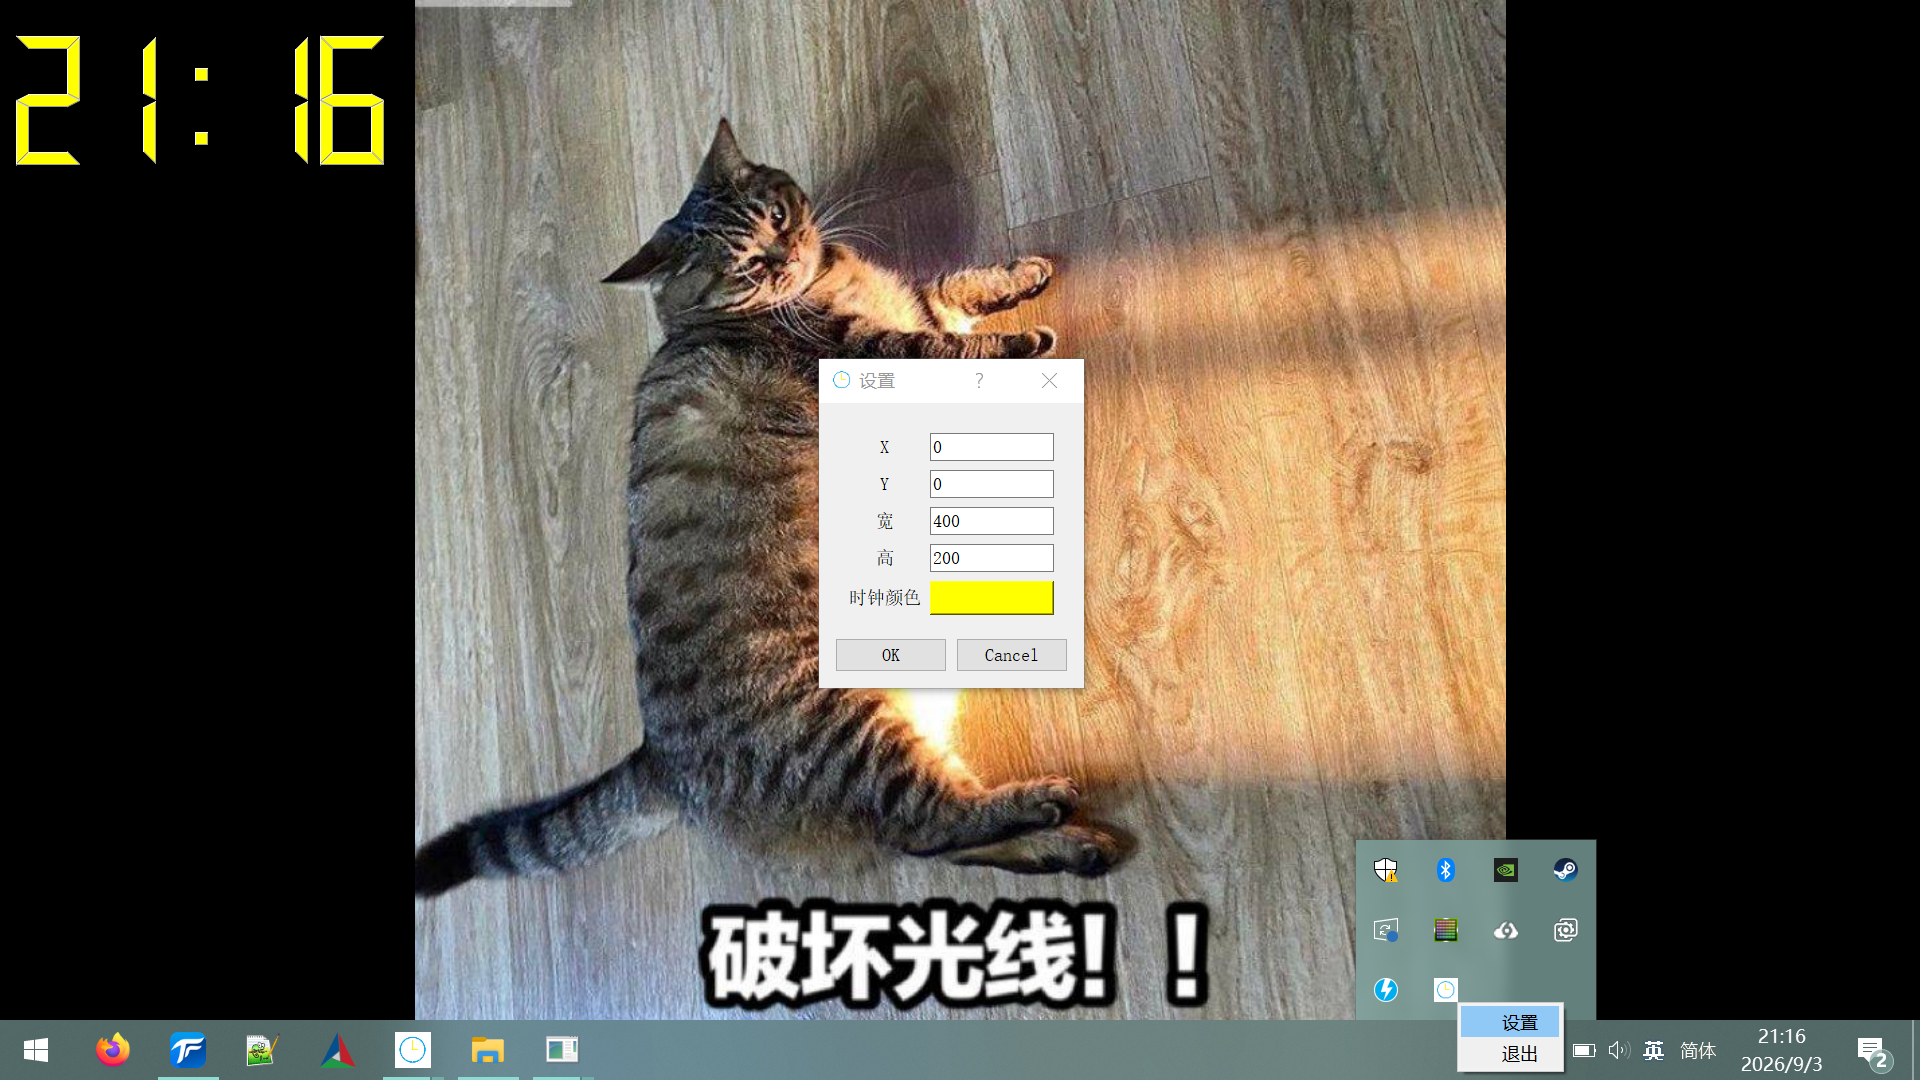
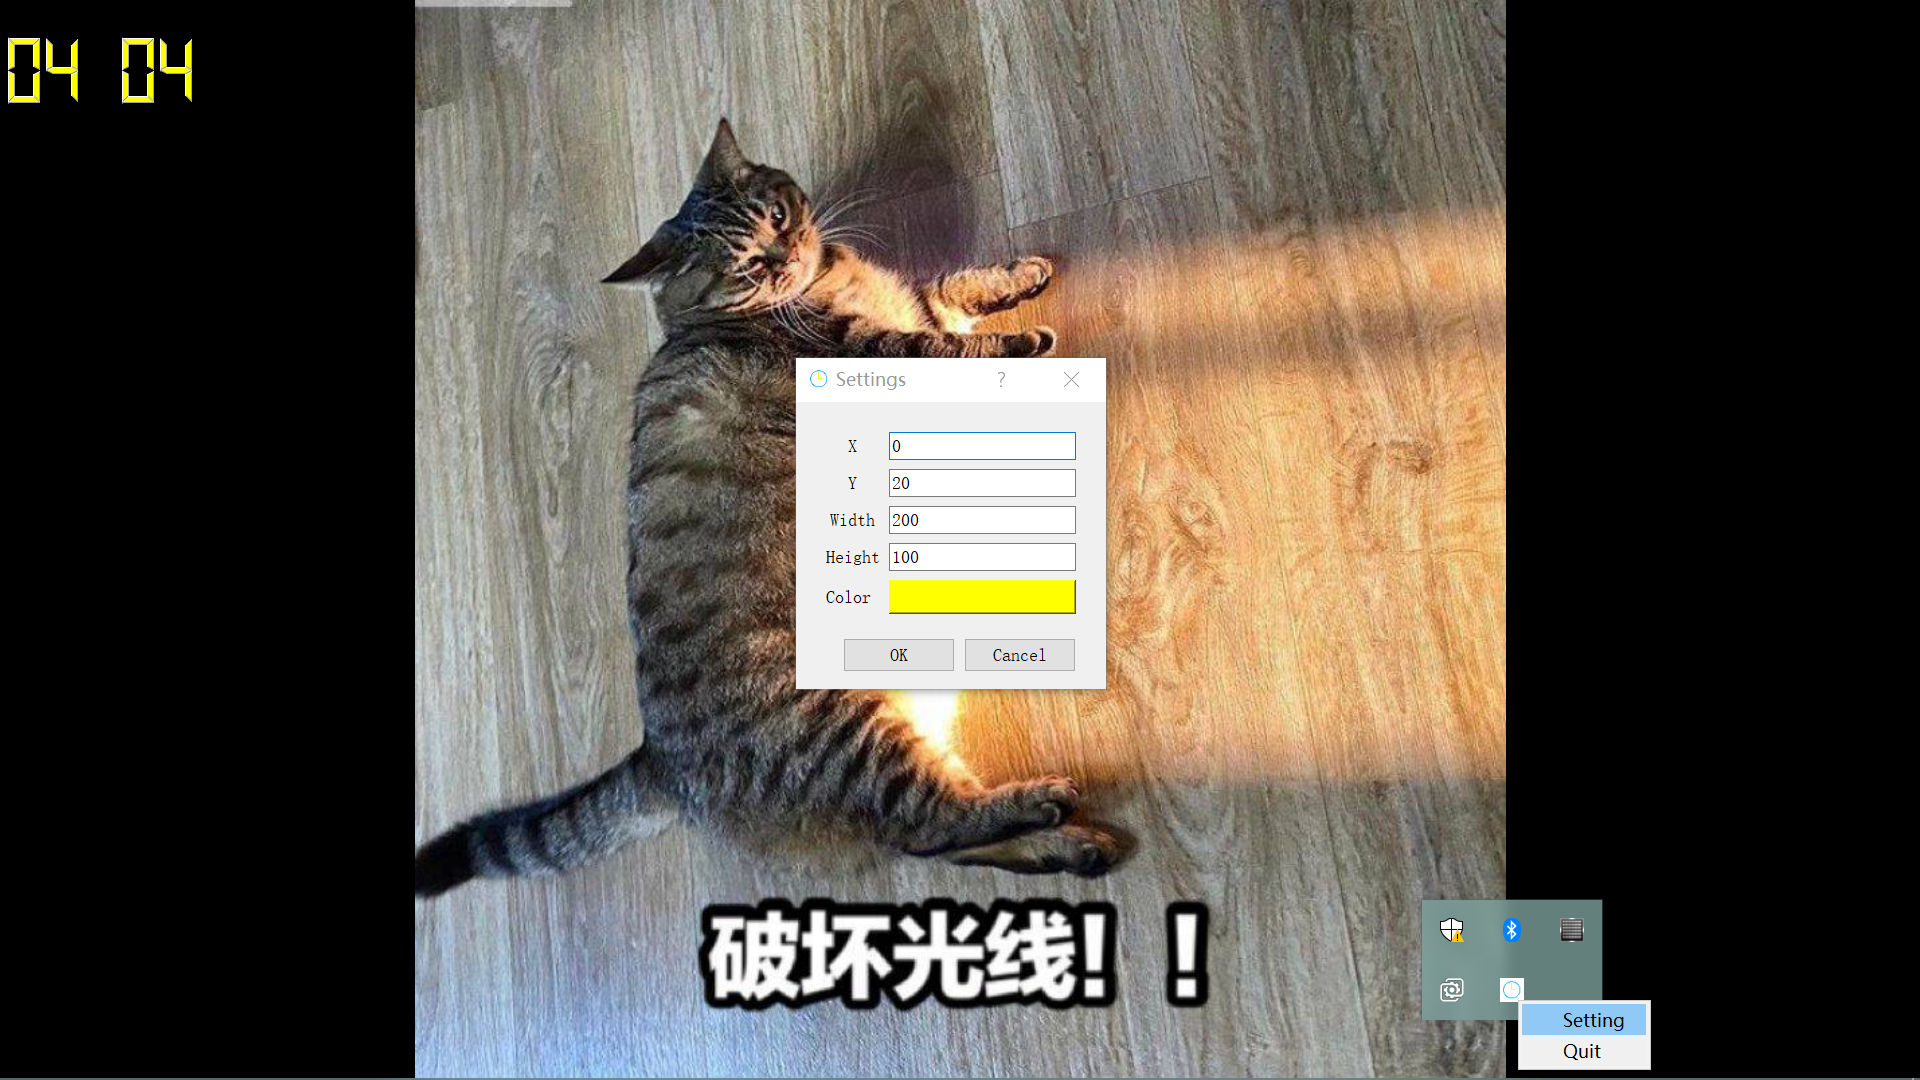
更新项目说明和效果预览图

diff --git a/README.md b/README.md
@@ -1,4 +1,13 @@
-# floatingClock悬浮时钟
-一个悬浮于画面顶层，位置和尺寸可调整的LCD时钟。避免“再来一回合”结果天亮鸡叫的情况一次又一次发生。
+# FloatingClock悬浮时钟
+
+A floating clock based on QT, used to remind me that it's too late for "one more turn".
+
+This LCD clock hovers above other windows and ignores any mouse click.
+
+Position, size and color can be customized.
+
+Setting window shows up on first startup, also can be summoned throuth system tary icon.
+
+一个悬浮于画面顶层，位置, 尺寸和颜色可调整的LCD时钟。避免“再来一回合”结果天亮鸡叫的情况一次又一次发生。
 
 设置窗口会在首次启动时显示，之后可以通过系统托盘调出。
